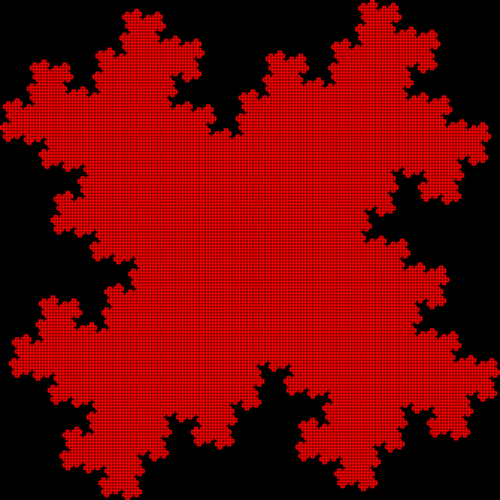
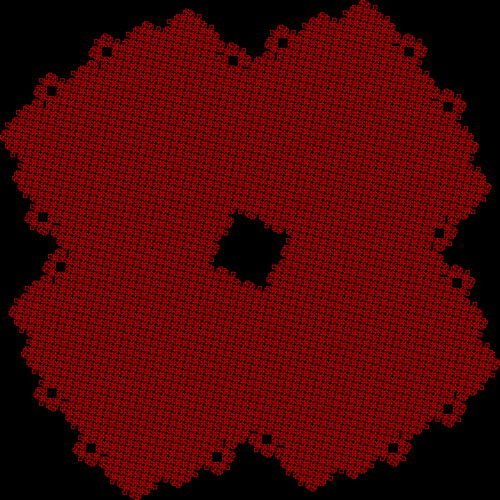
Random Fractal

diff --git a/FractalPro/Fractal/Program.cs b/FractalPro/Fractal/Program.cs
@@ -23,7 +23,7 @@ namespace Fractal
             int iteration = 6;
             string initialString = "F-F-F-F";
             Dictionary<char, string> rules = new Dictionary<char, string>();
-            rules.Add('B', "BWB"); rules.Add('W', "WWW"); rules.Add('F', "F-FF--F-F");
+            rules.Add('B', "BWB"); rules.Add('W', "WWW"); rules.Add('F', "F-FF-F+FF-F");
             StringBuilder sB = new StringBuilder();
 
 
@@ -54,22 +54,39 @@ namespace Fractal
                     sB = new StringBuilder();
                 }
             }
+            int w = 1000;
+            int h = 1000;
 
-            Bitmap mainImage = new Bitmap(1000, 1000);
+            Bitmap mainImage = new Bitmap(w, h);
+            float initialCurrentX = 600;
+            float initialCurrentY = 700;
             float currentX = 600f;
             float currentY = 700f;
 
             //up,right,down,left
             //The Algorithmic Beauty of Plants
 
-            float iterate = 2f;
+            float iterate = 7;
+            int counter = 0;
 
+           
 
-            Graphics newGraphics = Graphics.FromImage(mainImage);
-            newGraphics.Clear(Color.Black); //Set background color to white
+            OneMoreItem:
+            if(counter > 3)
+            {
+                counter = 0;
+                w += 1000;
+                h += 1000;
+                mainImage = new Bitmap(w, h);
+                currentX = (w / 2) + 100;
+                currentY = (w / 2) + 200;
+            }
+
 
             using (Graphics g = Graphics.FromImage(mainImage))
             {
+                g.Clear(Color.Black);
+
                 //g.ScaleTransform(-1, -1);
                 for (int i = 0; i < initialString.Length; i++)
                 {
@@ -80,30 +97,70 @@ namespace Fractal
                             //up
                             if (iA == 0 && iterateAxis[iA])
                             {
-                                g.DrawLine(new Pen(Color.Red), currentX, currentY, currentX, currentY - iterate);
+                                g.DrawLine(new Pen(Color.Red,1), currentX, currentY, currentX, currentY - iterate);
                                 pointsOfImage.Add(new CustomPoint(currentX, currentY, currentX, currentY - iterate));
                                 currentY -= iterate;
+                                if(currentY < 0)
+                                {
+                                    iterate = iterate - 1 > 0 ? iterate - 1 : 1;
+                                    g.Clear(Color.Black);
+                                    pointsOfImage = new List<CustomPoint>();
+                                    initialCurrentY += 100;
+                                    currentY = initialCurrentY;
+                                    counter++;
+                                    goto OneMoreItem;
+                                }
                             }
                             //right
                             else if (iA == 1 && iterateAxis[iA])
                             {
-                                g.DrawLine(new Pen(Color.Red), currentX, currentY, currentX + iterate, currentY);
+                                g.DrawLine(new Pen(Color.Red, 1), currentX, currentY, currentX + iterate, currentY);
                                 pointsOfImage.Add(new CustomPoint(currentX, currentY, currentX + iterate, currentY));
                                 currentX += iterate;
+                                if (currentX > mainImage.Width)
+                                {
+                                    iterate =   iterate - 1 > 0 ? iterate-1 : 1;
+                                    g.Clear(Color.Black);
+                                    pointsOfImage = new List<CustomPoint>();
+                                    initialCurrentX -= 100;
+                                    currentX = initialCurrentX;
+                                    counter++;
+                                    goto OneMoreItem;
+                                }
                             }
                             //down
                             else if (iA == 2 && iterateAxis[iA])
                             {
-                                g.DrawLine(new Pen(Color.Red), currentX, currentY, currentX, currentY + iterate);
+                                g.DrawLine(new Pen(Color.Red,1), currentX, currentY, currentX, currentY + iterate);
                                 pointsOfImage.Add(new CustomPoint(currentX, currentY, currentX, currentY + iterate));
                                 currentY += iterate;
+                                if (currentY > mainImage.Height)
+                                {
+                                    iterate = iterate - 1 > 0 ? iterate - 1 : 1;
+                                    g.Clear(Color.Black);
+                                    pointsOfImage = new List<CustomPoint>();
+                                    initialCurrentY -= 100;
+                                    currentY = initialCurrentY;
+                                    counter++;
+                                    goto OneMoreItem;
+                                }
                             }
                             //left
                             else if (iA == 3 && iterateAxis[iA])
                             {
-                                g.DrawLine(new Pen(Color.Red), currentX, currentY, currentX - iterate, currentY);
+                                g.DrawLine(new Pen(Color.Red,1), currentX, currentY, currentX - iterate, currentY);
                                 pointsOfImage.Add(new CustomPoint(currentX, currentY, currentX - iterate, currentY));
                                 currentX -= iterate;
+                                if (currentX < 0)
+                                {
+                                    iterate = iterate - 1 > 0 ? iterate - 1 : 1;
+                                    g.Clear(Color.Black);
+                                    pointsOfImage = new List<CustomPoint>();
+                                    initialCurrentX += 100;
+                                    currentX = initialCurrentX;
+                                    counter++;
+                                    goto OneMoreItem;
+                                }
                             }
                         }
                     }
@@ -117,23 +174,40 @@ namespace Fractal
                     }
                 }
 
-                if (pointsOfImage.Max(a => a.x1) > 1000 || pointsOfImage.Min(a => a.x1) < 0 || pointsOfImage.Max(a => a.y1) > 1000 || pointsOfImage.Min(a => a.y1) < 0)
-                {
-                    g.Clear(Color.Black);
-                    pointsOfImage.ForEach(a =>
-                    {
-                        g.DrawLine(new Pen(Color.Red), a.x1, a.x2, a.y1, a.y2);
-                    });
-                }
+                
+         
+                //        if (pointsOfImage.Max(a => a.x1) > 1000 || pointsOfImage.Min(a => a.x1) < 0 || pointsOfImage.Max(a => a.y1) > 1000 || pointsOfImage.Min(a => a.y1) < 0)
+                //        {
+                //            CustomPoint leftPixel1 = pointsOfImage.OrderBy(a => a.x1).First();
+                //            CustomPoint rightPixel1 = pointsOfImage.OrderByDescending(a => a.x2).First();
+                //            CustomPoint topPixel1 = pointsOfImage.OrderBy(a => a.y1).First();
+                //            CustomPoint bottomPixel1 = pointsOfImage.OrderByDescending(a => a.y1).First();
+
+                //            float distance12 = (rightPixel1.x2 - leftPixel1.x1) + 1;
+                //            float distance22 = (bottomPixel1.y2 - topPixel1.y1) + 1;
+
+                //            Rectangle newRect1 = new Rectangle((int)leftPixel1.x1, (int)topPixel1.y1, Convert.ToInt32(distance12), Convert.ToInt32(distance22));
+                //                var rc = new Rectangle(
+                //Math.Min(leftPixel1.x1, endpoint.x),
+                //Math.Min(startpoint.y, endpoint.y),
+                //Math.Abs(endpoint.x - startpoint.x),
+                //Math.Abs(endpoint.y - startpoint.y));
+                //                e.Graphics.FillRectangle(sb, rc);
+                //            newRect1.Width /= 2;
+                //            newRect1.Height /= 2;
+                //            g.Clear(Color.Black);
+                //            g.FillRectangle(Brushes.Black, newRect1);
+                //            //g.DrawImage(mainImage, new Rectangle(0, 0, mainImage.Width, mainImage.Height), newRect1, GraphicsUnit.Pixel);
+                //        }
             }
 
             //Get First Pixe
 
             var allPixels = PixelOfGivenColor(mainImage);
 
-            Point  leftPixel = allPixels.OrderBy(a => a.X).First();
-            Point rightPixel  = allPixels.OrderByDescending(a => a.X).First();
-            Point topPixel  = allPixels.OrderBy(a => a.Y).First();
+            Point leftPixel = allPixels.OrderBy(a => a.X).First();
+            Point rightPixel = allPixels.OrderByDescending(a => a.X).First();
+            Point topPixel = allPixels.OrderBy(a => a.Y).First();
             Point bottomPixel = allPixels.OrderByDescending(a => a.Y).First();
 
             //float distance1 = distanceBetweenTwoPoints(leftPixel, rightPixel);
